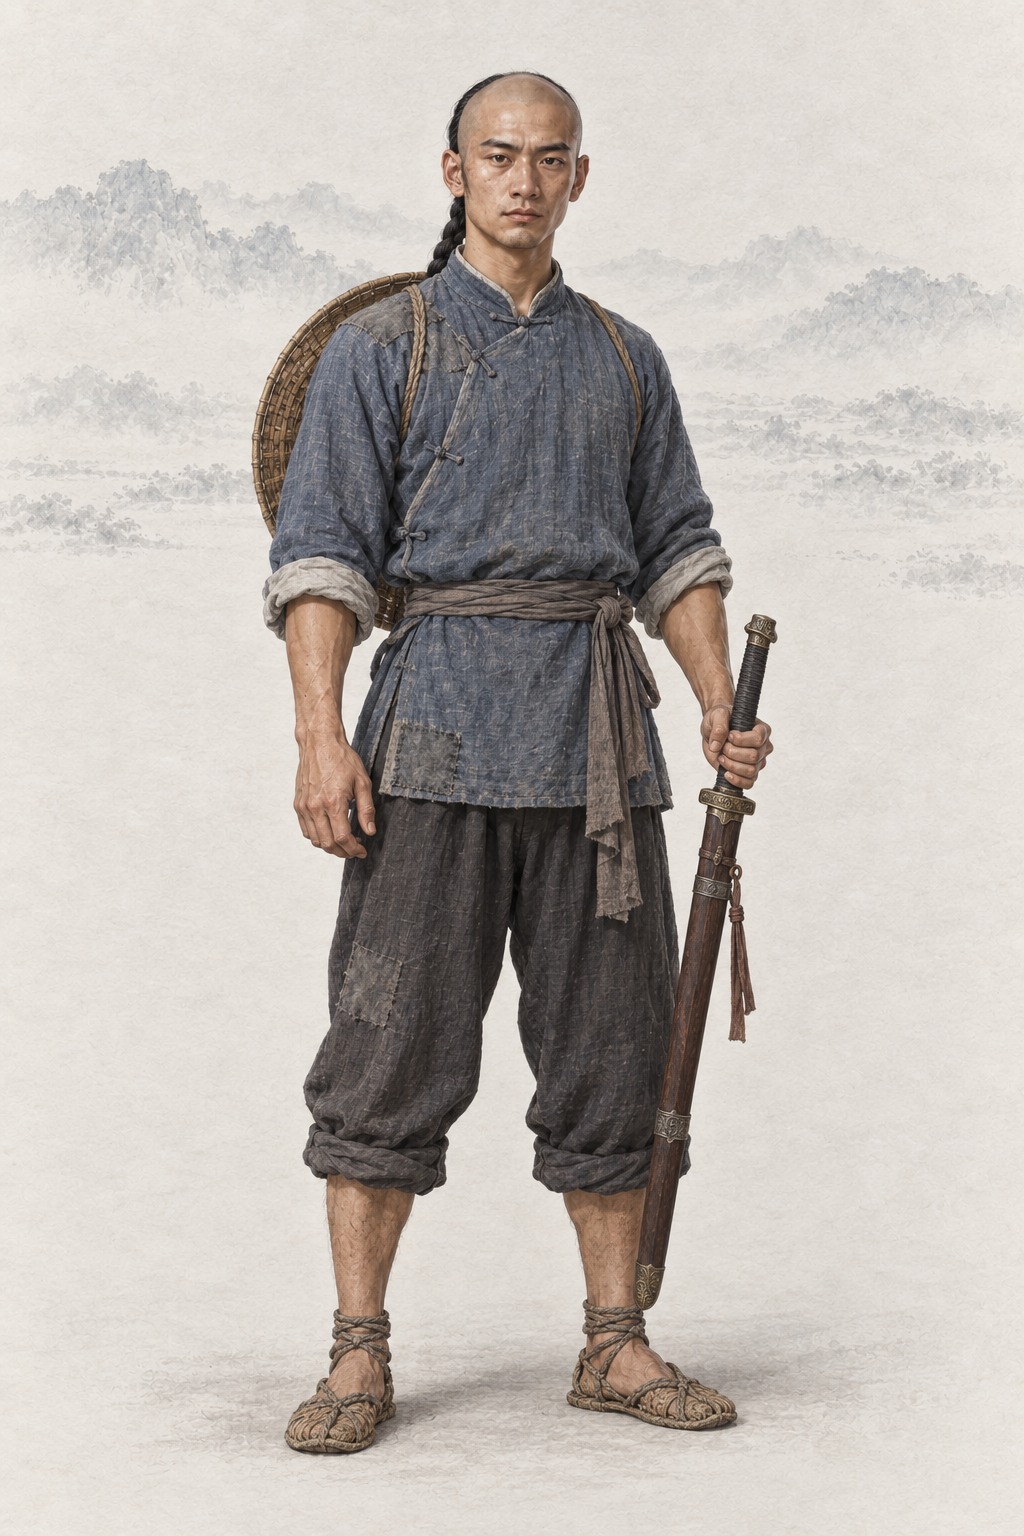
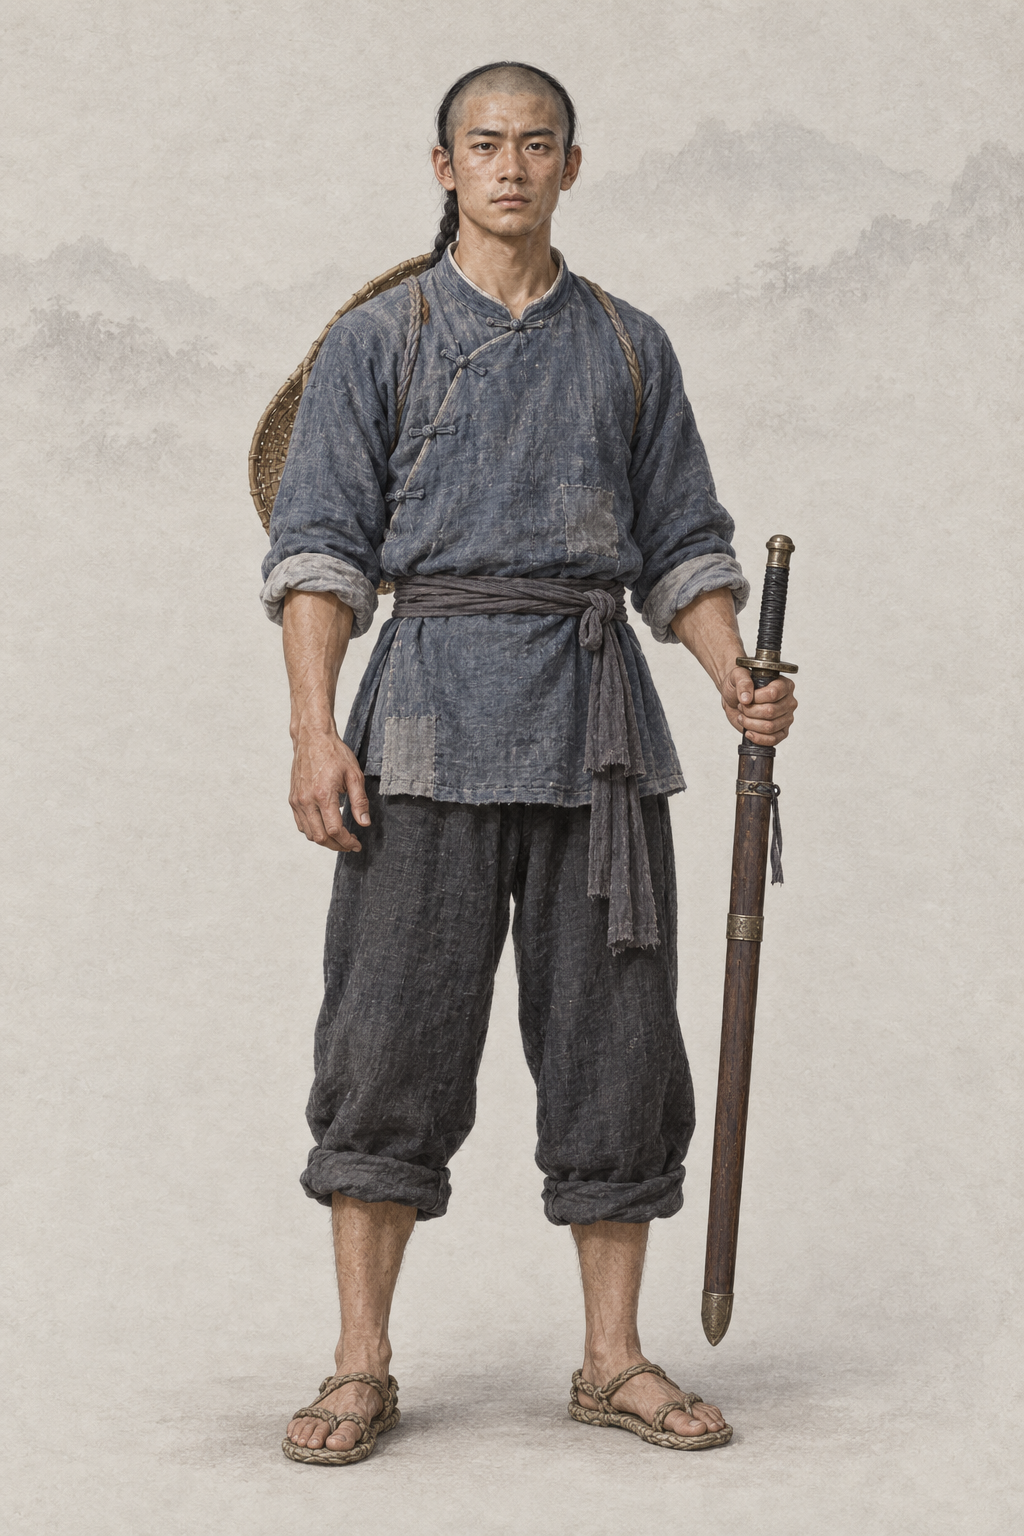
assets(character): por_npc_diyun__ch09_youth_rural_base 狄云（湘西乡下常装）（codex · AR-32 经典剧照重出）
本机无剧照，文字 + 基线；提示词写回「## Gemini 提示词」，上一版留作历史，frontmatter 加 classic_ref。

diff --git a/assets/default/prompts/characters/ch09-liancheng/npc_diyun__rural.md b/assets/default/prompts/characters/ch09-liancheng/npc_diyun__rural.md
@@ -11,15 +11,39 @@ manifest: assets/default/character/male/ch09/manifest.yaml
 references: []
 status: new
 redo_reason: "狄云唯一的基础图是“宝象僧衣伪装”（光头）；补一张湘西乡下农家青年的常态立绘（入狱前、十指完好），上传现图只取脸作身份参考。"
-reference_upload:
-  - assets/default/character/male/ch09/por_npc_diyun__ch09_youth_disguise_base.png
-  - assets/default/baseline/character/male/ref_npc_linghuchong__ch05_base01.png
 codex_prompt_rev: 2026-10-02
+classic_ref:
+  version: "无剧照（本机没有2004 年《连城诀》电视剧里该角色的剧照，经典造型用文字描写）"
+  stills: []
+  note: "本机没有该角色的经典版剧照，只用文字和两张同性别基线出图（AR-32）"
+reference_upload:
+- assets/default/baseline/character/male/ref_npc_linghuchong__ch05_base01.png
+- assets/default/baseline/character/male/ref_npc_xiaofeng__ch01_base01.png
 ---
 
 # 狄云（湘西乡下常装） · 基础立绘（2026-10-02 新建）
 
 ## Gemini 提示词
+
+> 2026-10-02 AR-32 经典剧照重出（6 号出图员，codex exec · image_gen 出图）：本机没有该角色剧照：只上传两张同性别基线，经典造型用文字描写。剧照只借鉴发型、服饰、配色、标志道具、气质与面部特征，重新绘制成项目画风，不照搬照片的构图、光影和姿势；人物一律成年；清代男子按清制剃额留辫。提示词里不写演员名。上一版提示词保留在下一节作历史。
+
+```text
+生成一张 2:3 竖幅全身人物立绘：单人、单一视角、完整全身——头顶、双手、双脚和手中器物的两端都在画面内，四周留出自然空白；人物站姿自然，身体基本朝向正面，头部端正（不歪头、不仰不俯），镜头平视。
+【参考图】随提示词上传的两张参考图是本项目画风基线：画风、用色、光线、质感和暖浅灰纸底加淡水墨背景以它们为准；只取画风，不取长相。
+【画风】写实手绘古风人物插画，与本项目写实武侠角色立绘同一画风，像功力深厚的画师用细腻笔触画出的真实人物。手绘插画质感，不是 CG 渲染：不要过度光滑的皮肤、完美对称的五官、塑料高光、过度锐利的发丝；保留自然的笔触和细微不完美。皮肤有真实质感——细小毛孔、细纹、晒痕和自然的左右不对称，不磨皮、不油亮；头发是一缕缕自然的发丝和少量碎发；布料看得出经纬纹理、厚薄和自然垂坠的褶皱，带穿用过的轻微旧化，但完整不破烂；整体设色低饱和、沉稳；柔和的自然光从左上方照来，明暗过渡自然，不打舞台光、轮廓光或美颜柔光。不是照片，不是三维渲染，不是动漫或游戏 CG，也不是油画（没有厚涂笔触和画布纹理）。
+【背景】不透明的暖浅灰色纸底，只在远处有极淡的水墨远山和薄雾，大面积留白；人物与背景明暗分明、轮廓边缘干净完整（后续要自动抠图），水墨和纸纹只在背景里，不侵入人物和衣服；脚下只有很淡的一点接触阴影。
+【人物】狄云，《连城诀》男主角，湘西麻溪铺乡下长大、跟着师父戚长发练剑的农家青年；随师父去荆州万家之前、还没有蒙冤入狱的时期。
+【年龄与体态】约二十岁的成年青年男子，身材结实匀称、肩背宽厚，是常年耕田挑担练出来的力气；双手粗糙、指节粗大，十根手指完好。
+【经典造型】要一眼认出是《连城诀》的狄云——湘西农家青年：靛蓝短褂、卷腿布裤、草鞋、背后斗笠、手里一柄旧剑；憨厚木讷、眼神清澈真诚，朴实而端正好看，不丑化。
+【面容】偏长的脸，颧颊和下颌的转折厚实；较浓、较低的眉毛压着深而偏窄的眼睛；鼻梁长直，鼻头和鼻翼宽实；嘴唇较宽、上唇偏薄；下巴方圆坚实。这时他还没受过牢狱之苦，面颊饱满；皮肤是山里日晒的黝黑，有真实的毛孔和细纹。神情憨厚、木讷、真诚，眼神清澈，带一点乡下人的拘谨。
+【发式】清初乡下男子发式——前额和头顶前半剃过，脑后一条粗黑的辫子垂在背后。
+【服饰】湘西农家的靛蓝色粗布短褂（大襟右衽、布纽扣）、宽腿黑布裤卷到小腿、腰间扎一条旧布带、脚穿草鞋；衣服洗得发白，打过一两处补丁，但完整干净。
+【道具与姿态】左手握一柄连鞘的旧长剑（木鞘磨得发亮，是平日练剑用的普通剑）；背后挂一顶旧竹斗笠；右手自然垂下；憨直地站着，正面看人。
+【不要】画面里不要任何文字、题款、印章、签名、水印、台标、边框、分格或多视图；不要第二个人；不要幼态（童颜、娃娃脸、婴儿肥、儿童或少年身材、大头小身）；不要塑料感皮肤、磨皮美颜、网红脸（尖下巴大眼高鼻的模板脸）、过度对称、浓妆、偶像式打光、蜡像感；不要照片质感、三维渲染或动漫大眼；不要歪头、斜镜头；不要多指、缺指（设定的伤残除外）、手与器物粘连或悬空；汉式交领必须右衽（穿着者的左襟压在右襟上），不要左衽（设定为少数民族服制的除外），不要水平镜像；不要现代物品、日式服饰或日本刀、发光特效、法阵或能量光。不要光头、僧衣、残缺的手指或镣铐；不要清瘦憔悴的牢狱相；不要偶像化的俊美脸。清初男子一律穿圆领大襟（衣襟从领口斜向右腋下扣合），不要汉式交领长衫，不要明代发髻或网巾。
+【画风基线】随提示词上传的参考图里，最后两张是本项目的立绘画风基线：只参考它们的画风、用色、光线、质感和暖浅灰纸底加淡水墨的背景处理，整体画风必须与它们一致——精细写实的数字手绘插画，不是油画，不要厚涂笔触和画布纹理。基线图只取画风，不取长相：不要照搬基线图里人物的长相、年龄、发型、服饰和姿势。
+```
+
+## 上一版 Gemini 提示词（2026-10-02 文字版；AR-32 经典剧照重出前，历史，不再用于出图）
 
 > 2026-10-02 Codex 人物线 2 号（AR-31）：在审核组稿上补一行「经典形象」（借鉴公认经典造型的发式、装束、配色、标志道具与气质，只写文字，不写演员名、不上传剧照），并补去 AI 化要求。本轮出图用下面第一个代码块；审核组原稿保留在其后的「审核组原稿」小节作历史。
 
